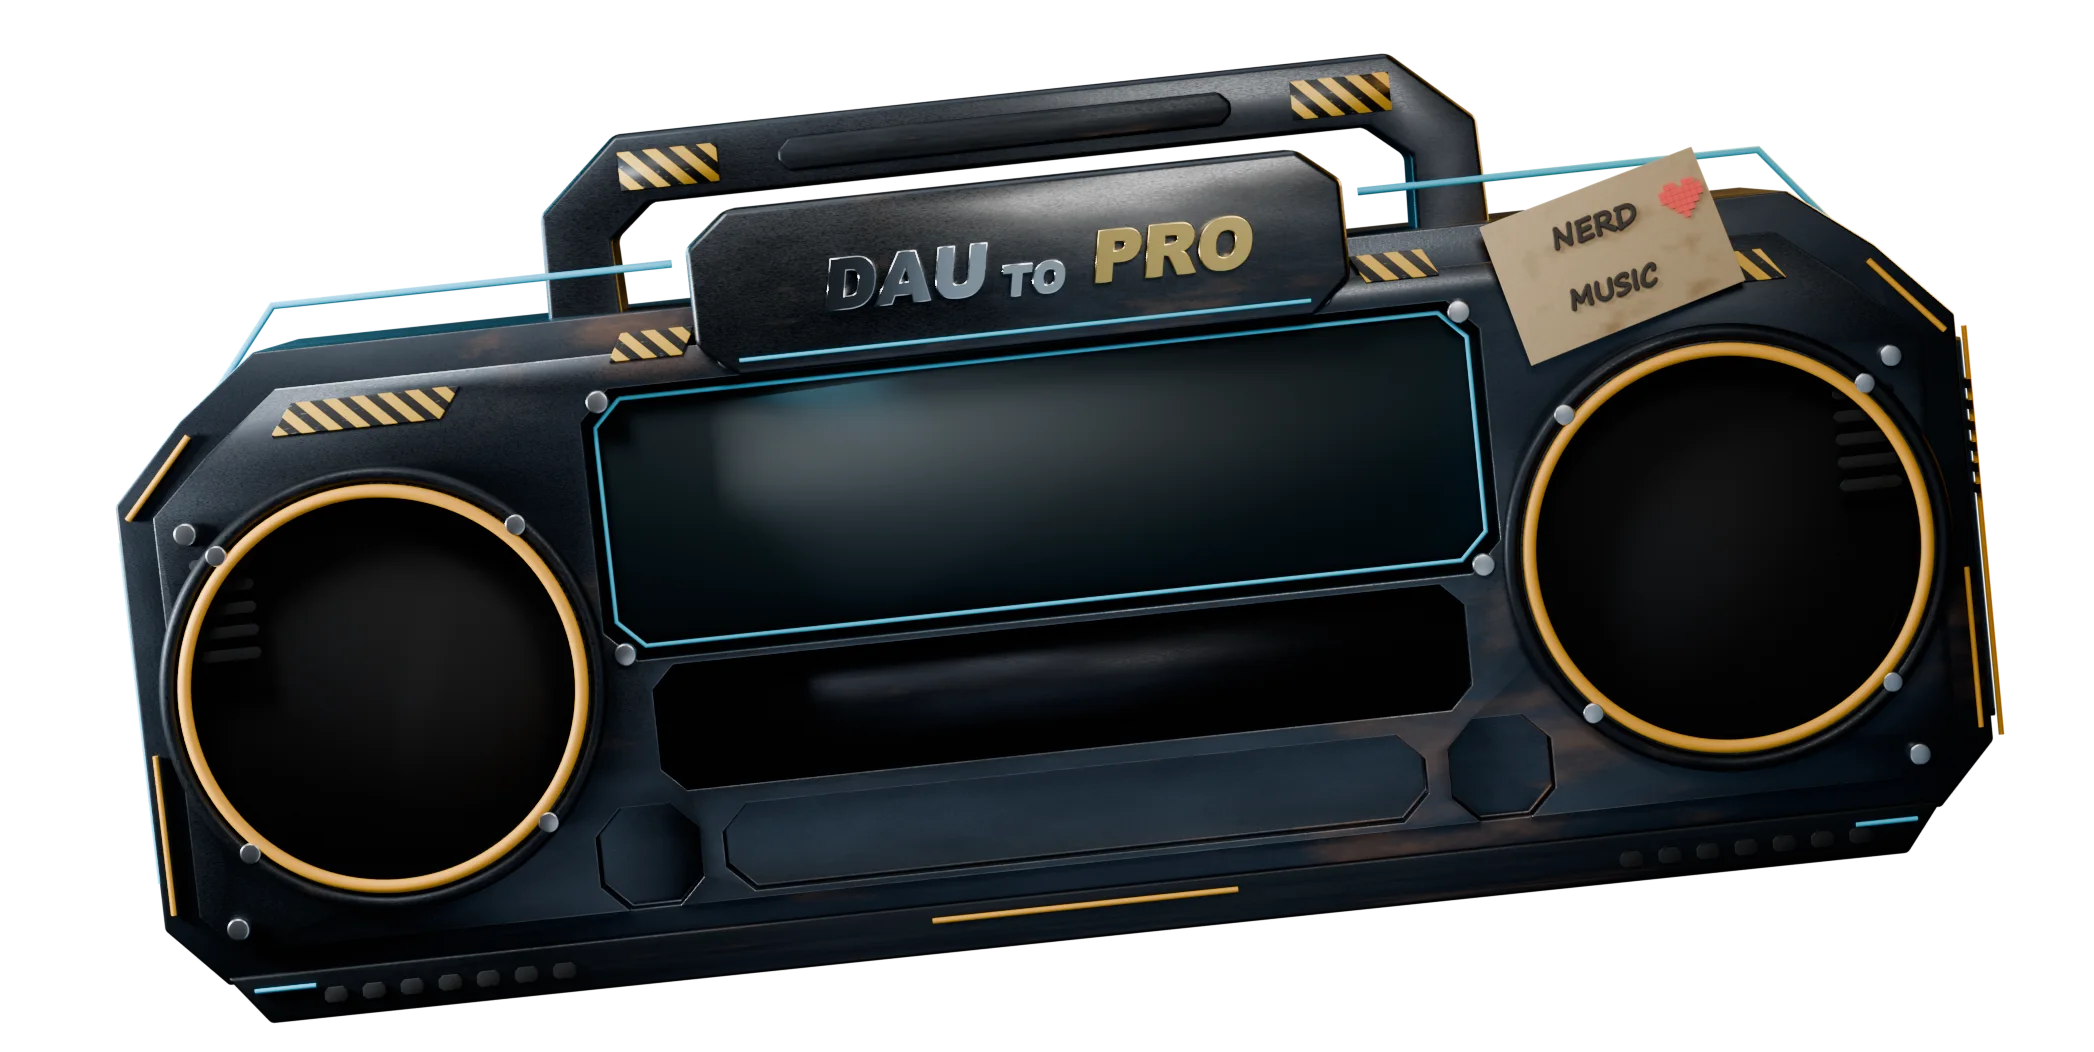
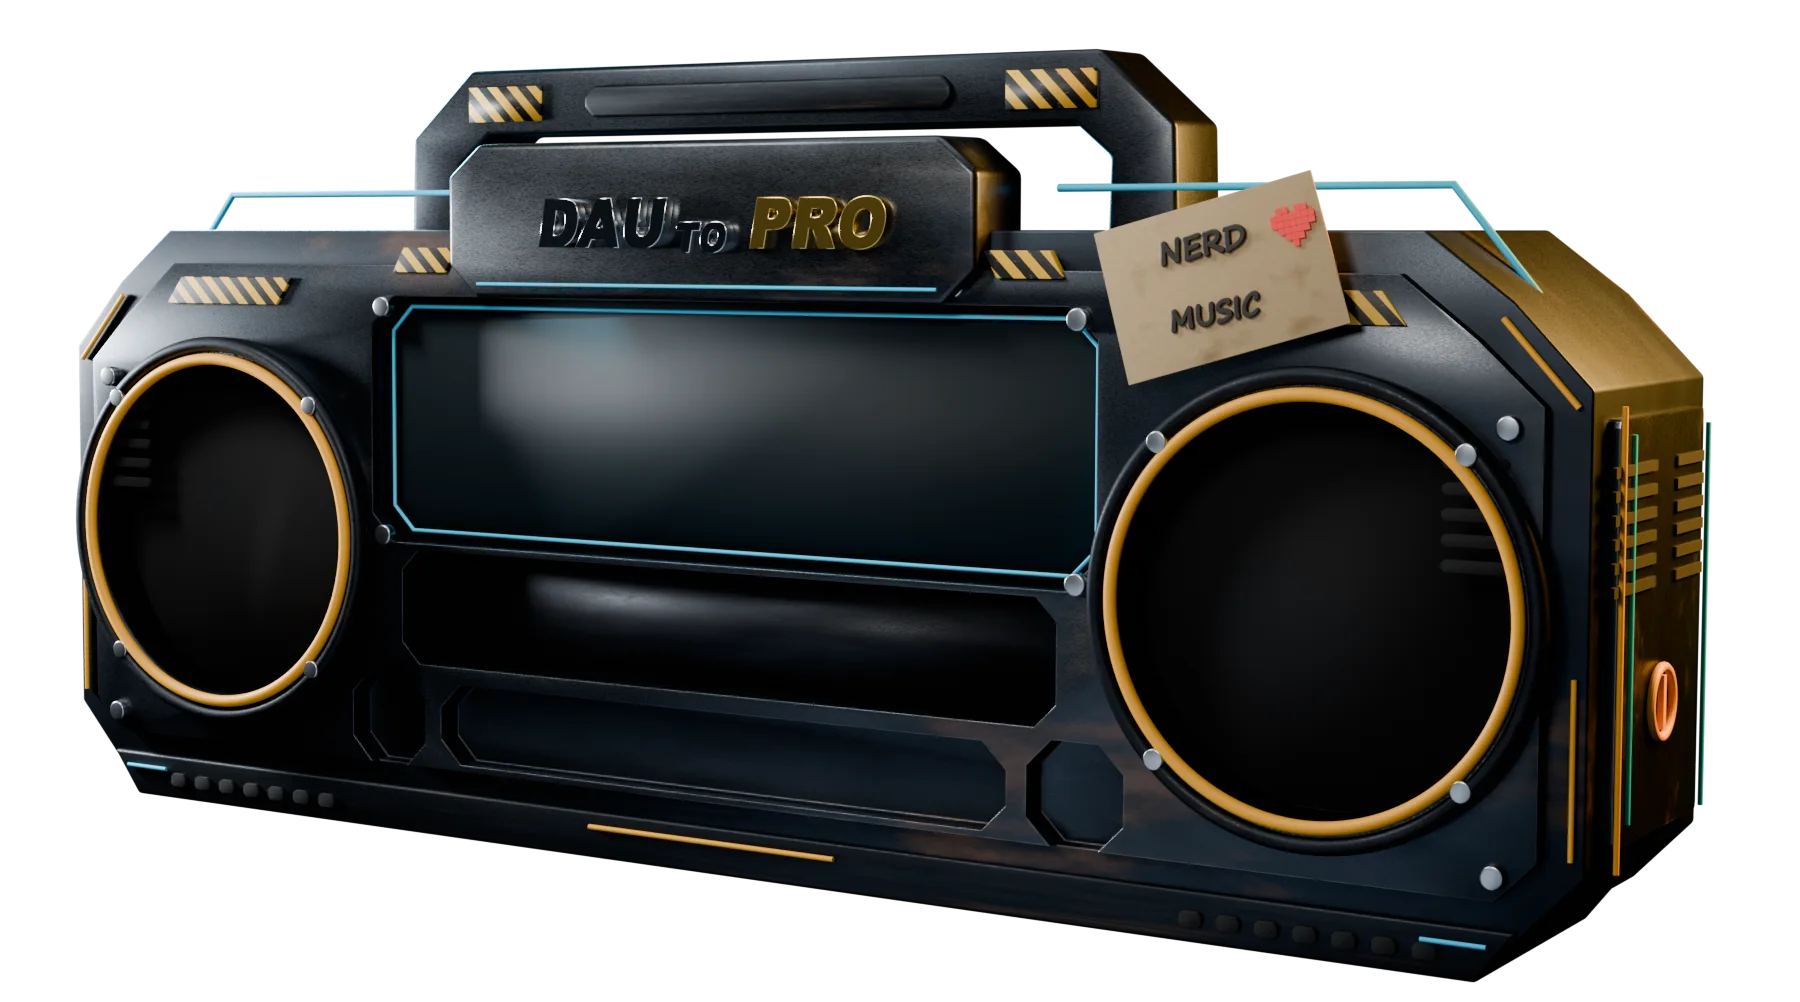
NERD RADIO: vordere rechte Ecke zur Kamera gedreht

diff --git a/dau-to-pro/nerd-radio/layout.css b/dau-to-pro/nerd-radio/layout.css
@@ -1,22 +1,22 @@
 /* Generiert von tools/nerd-radio/build_boombox.py – nicht von Hand ändern. */
-.nr-device{aspect-ratio:2094/1053;--nr-face:"0.01971 0.17932 0.93589 -0.01277 0.97354 0.80240 0.06775 0.99011";--nr-roll:-6deg}
-.nr-speaker--l{left:7.972%;top:44.405%;width:21.016%;height:41.328%}
+.nr-device{aspect-ratio:1800/1002;--nr-face:"0.03331 0.07696 0.91765 0.01516 0.90590 1.00633 0.03914 0.78392";--nr-roll:0deg}
+.nr-speaker--l{left:6.027%;top:35.031%;width:14.700%;height:36.182%}
 .nr-speaker--l .nr-speaker__cone{background-image:url(cone-0.webp)}
-.nr-speaker--r{left:71.877%;top:31.053%;width:20.762%;height:41.478%}
+.nr-speaker--r{left:62.447%;top:38.398%;width:23.089%;height:45.966%}
 .nr-speaker--r .nr-speaker__cone{background-image:url(cone-1.webp)}
-.nr-key[data-radio-prev]{left:30.859%;top:61.760%;width:8.977%;height:13.861%;background-image:url(key-prev-up.webp)}
+.nr-key[data-radio-prev]{left:21.433%;top:54.537%;width:7.745%;height:13.234%;background-image:url(key-prev-up.webp)}
 .nr-key[data-radio-prev]:active,.nr-key[data-radio-prev].is-down{background-image:url(key-prev-down.webp)}
-.nr-key[data-radio-stop]{left:38.185%;top:60.235%;width:8.971%;height:13.866%;background-image:url(key-stop-up.webp)}
+.nr-key[data-radio-stop]{left:27.559%;top:55.416%;width:8.026%;height:13.499%;background-image:url(key-stop-up.webp)}
 .nr-key[data-radio-stop]:active,.nr-key[data-radio-stop].is-down{background-image:url(key-stop-down.webp)}
-.nr-key[data-radio-play]{left:45.514%;top:58.405%;width:10.430%;height:14.175%;background-image:url(key-play-up.webp)}
+.nr-key[data-radio-play]{left:34.014%;top:56.341%;width:9.733%;height:14.029%;background-image:url(key-play-up.webp)}
 .nr-key[data-radio-play]:active,.nr-key[data-radio-play].is-down{background-image:url(key-play-down.webp)}
-.nr-key[data-radio-next]{left:54.313%;top:56.878%;width:8.958%;height:13.875%;background-image:url(key-next-up.webp)}
+.nr-key[data-radio-next]{left:42.221%;top:57.519%;width:8.759%;height:14.140%;background-image:url(key-next-up.webp)}
 .nr-key[data-radio-next]:active,.nr-key[data-radio-next].is-down{background-image:url(key-next-down.webp)}
-.nr-key[data-radio-shuffle]{left:61.649%;top:55.351%;width:8.952%;height:13.880%;background-image:url(key-shuffle-up.webp)}
+.nr-key[data-radio-shuffle]{left:49.480%;top:58.562%;width:9.155%;height:14.460%;background-image:url(key-shuffle-up.webp)}
 .nr-key[data-radio-shuffle]:active,.nr-key[data-radio-shuffle].is-down{background-image:url(key-shuffle-down.webp)}
-.nr-key[data-radio-mode]{left:27.286%;top:74.381%;width:7.385%;height:14.565%;background-image:url(key-mode-up.webp)}
+.nr-key[data-radio-mode]{left:18.099%;top:64.736%;width:6.231%;height:14.015%;background-image:url(key-mode-up.webp)}
 .nr-key[data-radio-mode]:active,.nr-key[data-radio-mode].is-down{background-image:url(key-mode-down.webp)}
-.nr-key[data-radio-list]{left:68.093%;top:65.901%;width:7.341%;height:14.591%;background-image:url(key-list-up.webp)}
+.nr-key[data-radio-list]{left:55.536%;top:71.835%;width:7.641%;height:15.786%;background-image:url(key-list-up.webp)}
 .nr-key[data-radio-list]:active,.nr-key[data-radio-list].is-down{background-image:url(key-list-down.webp)}
 .nr-device[data-state=playing] .nr-key[data-radio-play]{background-image:url(key-play-on-up.webp)}
 .nr-device[data-state=playing] .nr-key[data-radio-play]:active,.nr-device[data-state=playing] .nr-key[data-radio-play].is-down{background-image:url(key-play-on-down.webp)}

diff --git a/tools/nerd-radio/build_boombox.py b/tools/nerd-radio/build_boombox.py
@@ -466,15 +466,17 @@ floor = None
 bpy.ops.mesh.primitive_plane_add(size=40, location=(0, 2, Z(447)))
 floor = bpy.context.object; floor.name = 'floor_unused'; floor.hide_render = True  # Bodenschatten macht die Website
 
-# Leicht schräg: das Gerät ist um die Blickachse gekippt, die rechte Seite steht höher.
-# Frontal, mit leichter Aufsicht und mittlerer Brennweite.
-cam_d = bpy.data.cameras.new('cam'); cam_d.lens = 85; cam_d.sensor_width = 36
+# Leicht schräg: das Gerät ist um die senkrechte Achse gedreht, die vordere rechte Ecke
+# ist näher an der Kamera als die linke (rechter Lautsprecher wirkt größer).
+# Normalbrennweite aus der Nähe, damit die Perspektive sichtbar ist; kaum Aufsicht.
+cam_d = bpy.data.cameras.new('cam'); cam_d.lens = 50; cam_d.sensor_width = 36
 cam = bpy.data.objects.new('cam', cam_d); scene.collection.objects.link(cam); scene.camera = cam
 tilt = math.radians(4)
-dist = 27
-roll = math.radians(6)
-cam.location = (0, -dist * math.cos(tilt), dist * math.sin(tilt) + 0.15)
-cam.rotation_euler = (math.pi / 2 - tilt, roll, 0)
+dist = 16.5
+yaw = math.radians(34)
+roll = 0.0
+cam.location = (dist * math.cos(tilt) * math.sin(yaw), -dist * math.cos(tilt) * math.cos(yaw), dist * math.sin(tilt) + 0.15)
+cam.rotation_euler = (math.pi / 2 - tilt, roll, yaw)
 W, H = (1100, 560) if PREVIEW else (2200, 1120)
 scene.render.resolution_x, scene.render.resolution_y = W, H
 cam_d.sensor_fit = 'HORIZONTAL'
@@ -687,7 +689,7 @@ def place(b):
 cw, ch = (CHASSIS[2] - CHASSIS[0]) * W, (CHASSIS[3] - CHASSIS[1]) * H
 quad = ' '.join(f'{v:.5f}' for p in anchors['face'] for v in p)
 lines = ['/* Generiert von tools/nerd-radio/build_boombox.py – nicht von Hand ändern. */',
-         f'.nr-device{{aspect-ratio:{round(cw)}/{round(ch)};--nr-face:"{quad}";--nr-roll:{-math.degrees(roll):g}deg}}']
+         f'.nr-device{{aspect-ratio:{round(cw)}/{round(ch)};--nr-face:"{quad}";--nr-roll:{-math.degrees(roll) + 0:g}deg}}']
 for i, side in enumerate(('l', 'r')):
     lines.append(f'.nr-speaker--{side}{{{place(anchors["cones"][i])}}}')
     lines.append(f'.nr-speaker--{side} .nr-speaker__cone{{background-image:url(cone-{i}.webp)}}')
